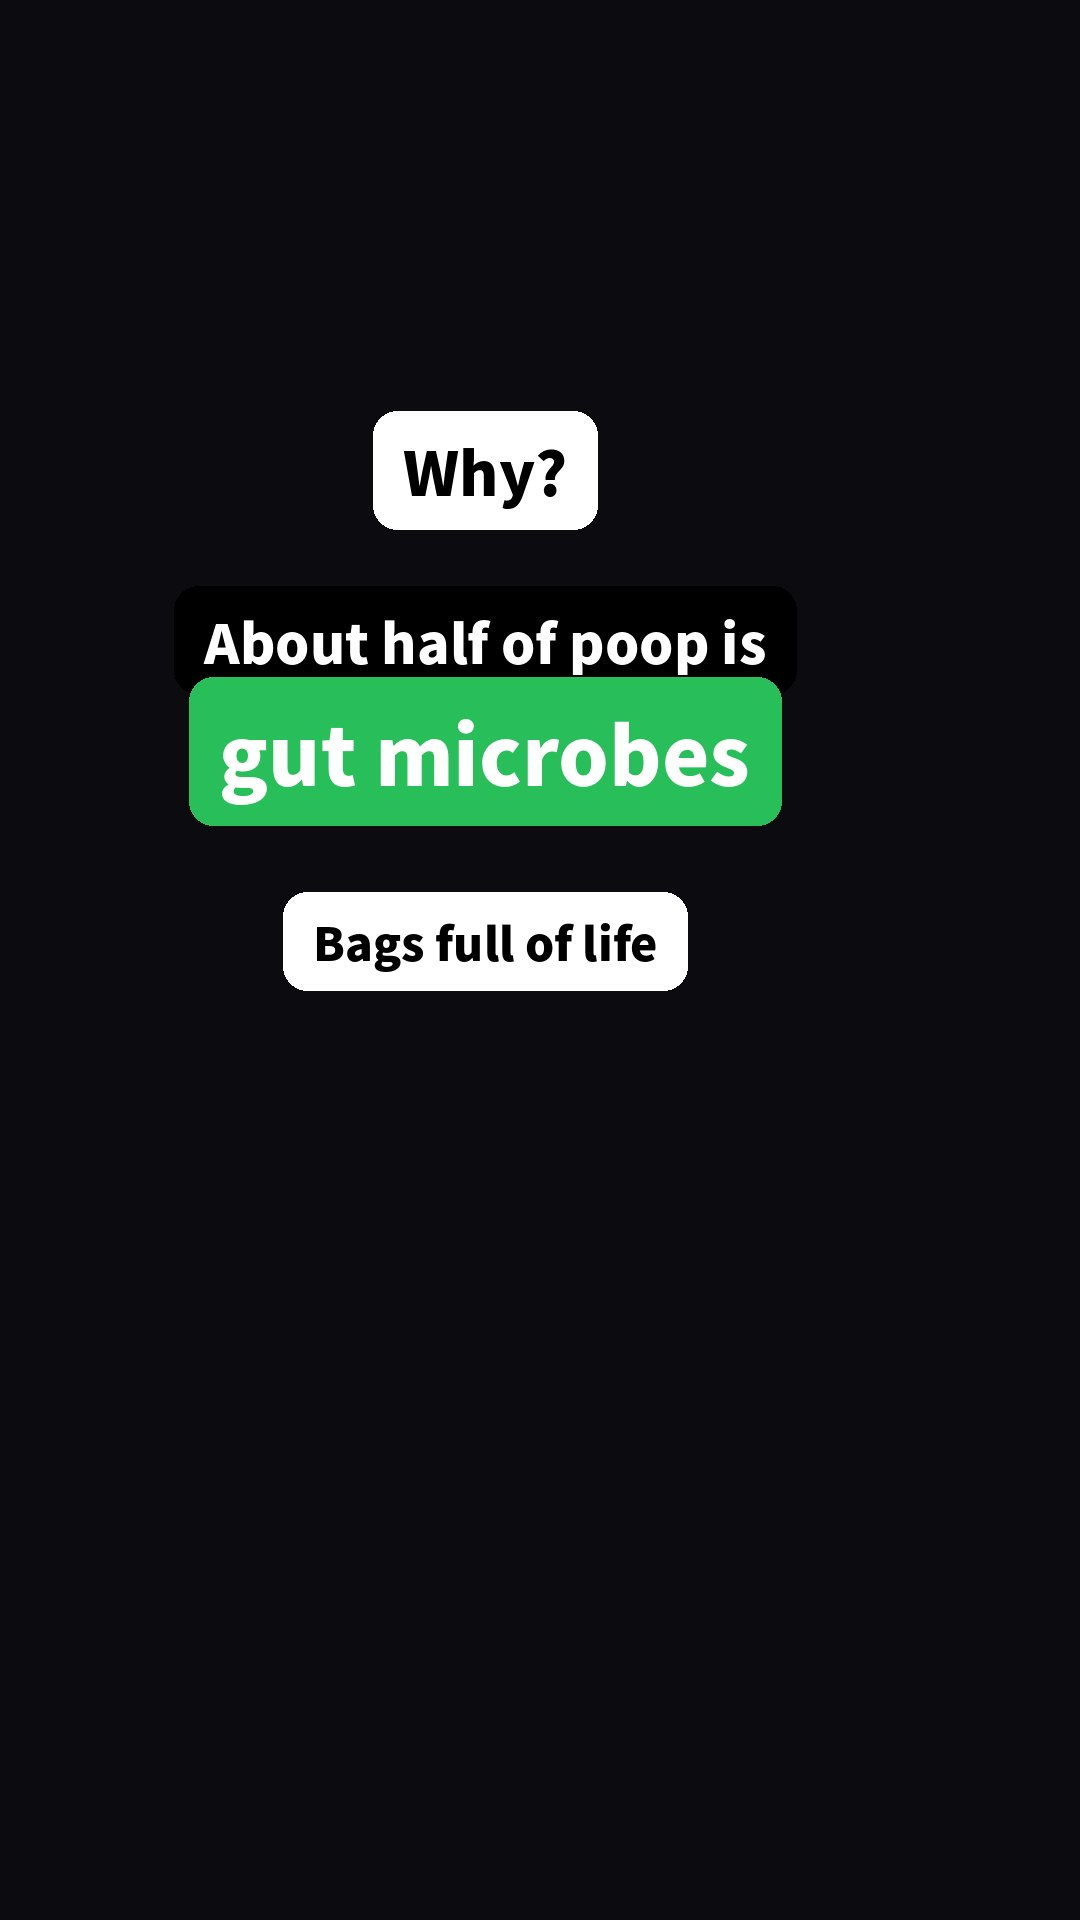
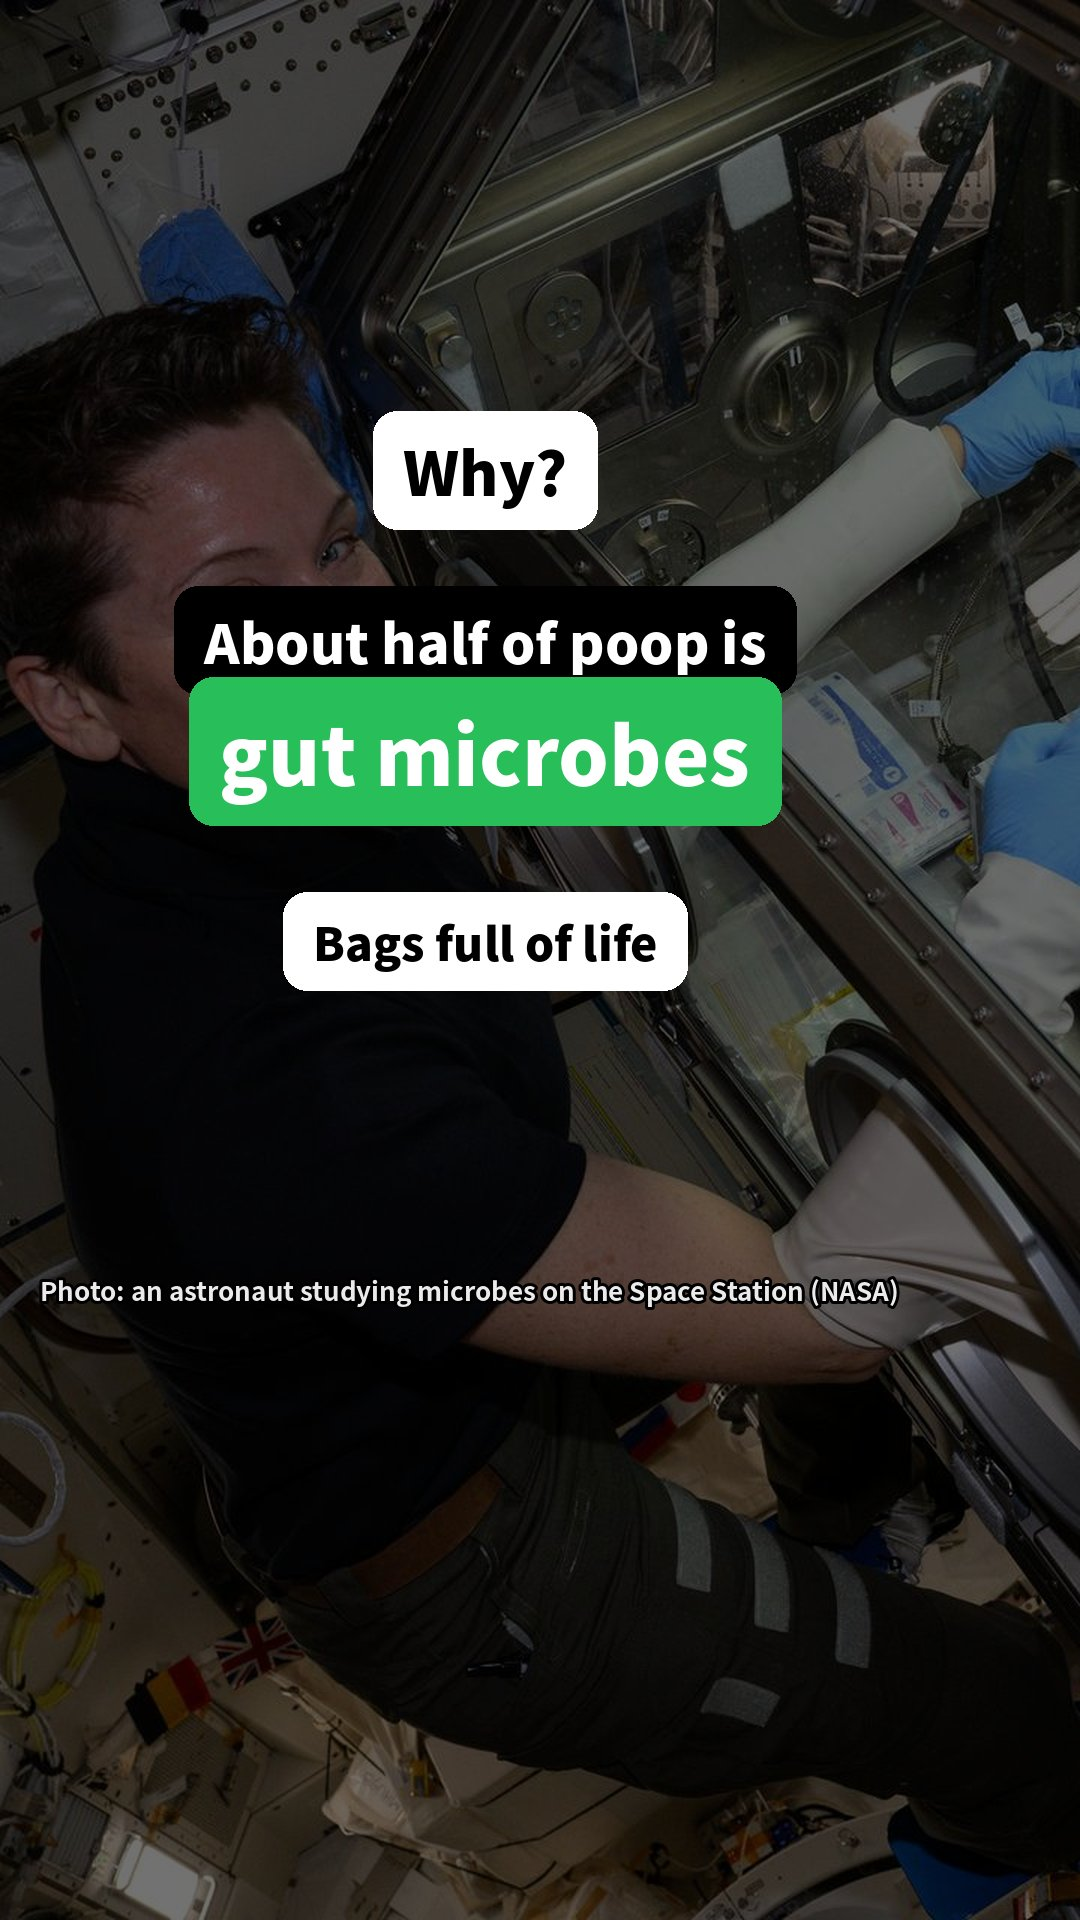
Polish: NASA photos replace plain black quiz slides (ISS microbe lab, Earthrise); remove test posts from feed
Claude-Session: https://claude.ai/code/session_01KTAQ7tbA9dyiSRaibWFyCH

diff --git a/sw.js b/sw.js
@@ -1,5 +1,5 @@
 // Offline support: app shell cached on install; data network-first; media cache-first.
-const V = 'oor-v25';
+const V = 'oor-v26';
 const SHELL = ['./', 'index.html', 'css/app.css', 'js/main.js', 'js/i18n.js', 'js/data.js', 'js/store.js', 'js/render.js', 'js/feed.js', 'js/sheets.js', 'js/pages.js', 'js/create.js', 'js/speech.js', 'js/audio.js', 'vendor/idb-keyval.js', 'vendor/html-to-image.js', 'manifest.webmanifest', 'icons/icon-192.png'];
 self.addEventListener('install', e => { e.waitUntil(caches.open(V).then(c => c.addAll(SHELL)).then(() => self.skipWaiting())); });
 self.addEventListener('activate', e => { e.waitUntil(caches.keys().then(ks => Promise.all(ks.filter(k => k !== V).map(k => caches.delete(k)))).then(() => self.clients.claim())); });

diff --git a/tools/build_lost_quiz.py b/tools/build_lost_quiz.py
@@ -7,14 +7,15 @@ Counts (from sources in data/posts.json): bags of waste 96, cameras 12, pairs of
 import sys, os, subprocess
 from PIL import Image, ImageDraw, ImageFont
 IMG, AUD, OUT = sys.argv[1:4]; W, H = 1080, 1920
+IMG2 = '/home/claude/nasa_dl/lost2'   # extra NASA photos (Earthrise, ISS microbe lab)
 def F(sz, w='Black'): return ImageFont.truetype(f'/usr/share/fonts/opentype/noto/NotoSansCJK-{w}.ttc', sz, index=0)
 def cover(im, cx=.5, cy=.5, z=1.0):
     iw, ih = im.size; tw = min(iw, ih * W / H) / z; th = tw * H / W
     if th > ih: th = ih; tw = th * W / H
     x0 = min(max(cx * iw - tw / 2, 0), iw - tw); y0 = min(max(cy * ih - th / 2, 0), ih - th)
     return im.resize((W, H), Image.LANCZOS, box=(x0, y0, x0 + tw, y0 + th))
-JA_STORY = [{'bg': 'astro', 'y': 470, 'note': '写真：アポロ12号の宇宙飛行士（NASA）', 'items': [('pill', 'なんで置いてきたの？', 52, (255, 255, 255), (0, 0, 0)), ('gap', 40), ('pill', '帰りに月の石を', 48, (0, 0, 0), (255, 255, 255)), ('pill', 'たくさん持ち帰るため', 48, (0, 0, 0), (255, 255, 255)), ('gap', 30), ('pill', 'いらない物は置いてきた', 56, (255, 206, 0), (0, 0, 0))]}, {'bg': 'lm', 'y': 400, 'items': [('pill', 'でも今、科学者が', 50, (255, 255, 255), (0, 0, 0)), ('pill', 'いちばん取りに行きたいのは', 50, (255, 255, 255), (0, 0, 0)), ('gap', 60), ('pill', 'うんち', 130, (255, 206, 0), (0, 0, 0))]}, {'bg': 'black', 'y': 470, 'items': [('pill', 'なんで？', 60, (255, 255, 255), (0, 0, 0)), ('gap', 50), ('pill', 'うんちの約半分は', 56, (0, 0, 0), (255, 255, 255)), ('pill', 'おなかの「菌」', 80, (40, 190, 90), (255, 255, 255)), ('gap', 40), ('pill', '生き物が入った袋なんです', 46, (255, 255, 255), (0, 0, 0))]}, {'bg': 'ground', 'y': 440, 'items': [('pill', 'しかも月はこんな場所', 52, (255, 255, 255), (0, 0, 0)), ('gap', 50), ('card', '空気', 'ない', (60, 140, 255)), ('card', '昼の温度', '約100℃', (230, 60, 60)), ('card', '夜の温度', '約−170℃', (60, 140, 255)), ('card', '放射線', 'あびっぱなし', (255, 150, 0)), ('gap', 10), ('pill', '生き物には最悪の場所', 52, (255, 206, 0), (0, 0, 0))]}, {'bg': 'black', 'y': 400, 'items': [('pill', 'そこで50年以上…', 56, (255, 255, 255), (0, 0, 0)), ('pill', 'もし菌が生きていたら', 56, (255, 255, 255), (0, 0, 0)), ('gap', 50), ('pill', '生き物は', 70, (40, 190, 90), (255, 255, 255)), ('pill', '宇宙の旅にも', 70, (40, 190, 90), (255, 255, 255)), ('pill', '耐えられるかも', 70, (40, 190, 90), (255, 255, 255)), ('gap', 70), ('pill', '生きてると思う？ ○か×でコメントしてね', 40, (255, 206, 0), (0, 0, 0))]}]
-EN_STORY = [{'bg': 'astro', 'y': 470, 'note': 'Photo: Apollo 12 astronaut (NASA)', 'items': [('pill', 'Why leave things there?', 50, (255, 255, 255), (0, 0, 0)), ('gap', 40), ('pill', 'To carry lots of', 48, (0, 0, 0), (255, 255, 255)), ('pill', 'Moon rocks home', 48, (0, 0, 0), (255, 255, 255)), ('gap', 30), ('pill', "they left what they didn't need", 46, (255, 206, 0), (0, 0, 0))]}, {'bg': 'lm', 'y': 400, 'items': [('pill', 'But what scientists', 50, (255, 255, 255), (0, 0, 0)), ('pill', 'most want back now is', 50, (255, 255, 255), (0, 0, 0)), ('gap', 60), ('pill', 'the poop', 120, (255, 206, 0), (0, 0, 0))]}, {'bg': 'black', 'y': 470, 'items': [('pill', 'Why?', 60, (255, 255, 255), (0, 0, 0)), ('gap', 50), ('pill', 'About half of poop is', 54, (0, 0, 0), (255, 255, 255)), ('pill', 'gut microbes', 80, (40, 190, 90), (255, 255, 255)), ('gap', 40), ('pill', 'Bags full of life', 46, (255, 255, 255), (0, 0, 0))]}, {'bg': 'ground', 'y': 440, 'items': [('pill', 'And the Moon is like this:', 50, (255, 255, 255), (0, 0, 0)), ('gap', 50), ('card', 'Air', 'none', (60, 140, 255)), ('card', 'Daytime', '~100°C', (230, 60, 60)), ('card', 'Night', '~−170°C', (60, 140, 255)), ('card', 'Radiation', 'nonstop', (255, 150, 0)), ('gap', 10), ('pill', 'The worst place for life', 50, (255, 206, 0), (0, 0, 0))]}, {'bg': 'black', 'y': 400, 'items': [('pill', 'After 50+ years there,', 54, (255, 255, 255), (0, 0, 0)), ('pill', 'if the microbes are alive', 54, (255, 255, 255), (0, 0, 0)), ('gap', 50), ('pill', 'life might', 70, (40, 190, 90), (255, 255, 255)), ('pill', 'survive trips', 70, (40, 190, 90), (255, 255, 255)), ('pill', 'through space', 70, (40, 190, 90), (255, 255, 255)), ('gap', 70), ('pill', 'Alive or not? Comment O or X', 42, (255, 206, 0), (0, 0, 0))]}]
+JA_STORY = [{'bg': 'astro', 'y': 470, 'note': '写真：アポロ12号の宇宙飛行士（NASA）', 'items': [('pill', 'なんで置いてきたの？', 52, (255, 255, 255), (0, 0, 0)), ('gap', 40), ('pill', '帰りに月の石を', 48, (0, 0, 0), (255, 255, 255)), ('pill', 'たくさん持ち帰るため', 48, (0, 0, 0), (255, 255, 255)), ('gap', 30), ('pill', 'いらない物は置いてきた', 56, (255, 206, 0), (0, 0, 0))]}, {'bg': 'lm', 'y': 400, 'items': [('pill', 'でも今、科学者が', 50, (255, 255, 255), (0, 0, 0)), ('pill', 'いちばん取りに行きたいのは', 50, (255, 255, 255), (0, 0, 0)), ('gap', 60), ('pill', 'うんち', 130, (255, 206, 0), (0, 0, 0))]}, {'bg': 'micro', 'y': 470, 'note': '写真：宇宙ステーションで菌を調べる宇宙飛行士（NASA）', 'items': [('pill', 'なんで？', 60, (255, 255, 255), (0, 0, 0)), ('gap', 50), ('pill', 'うんちの約半分は', 56, (0, 0, 0), (255, 255, 255)), ('pill', 'おなかの「菌」', 80, (40, 190, 90), (255, 255, 255)), ('gap', 40), ('pill', '生き物が入った袋なんです', 46, (255, 255, 255), (0, 0, 0))]}, {'bg': 'ground', 'y': 440, 'items': [('pill', 'しかも月はこんな場所', 52, (255, 255, 255), (0, 0, 0)), ('gap', 50), ('card', '空気', 'ない', (60, 140, 255)), ('card', '昼の温度', '約100℃', (230, 60, 60)), ('card', '夜の温度', '約−170℃', (60, 140, 255)), ('card', '放射線', 'あびっぱなし', (255, 150, 0)), ('gap', 10), ('pill', '生き物には最悪の場所', 52, (255, 206, 0), (0, 0, 0))]}, {'bg': 'earth', 'y': 480, 'note': '写真：月から見た地球「地球の出」（アポロ8号、NASA）', 'items': [('pill', 'そこで50年以上…', 56, (255, 255, 255), (0, 0, 0)), ('pill', 'もし菌が生きていたら', 56, (255, 255, 255), (0, 0, 0)), ('gap', 30), ('pill', '生き物は', 70, (40, 190, 90), (255, 255, 255)), ('pill', '宇宙の旅にも', 70, (40, 190, 90), (255, 255, 255)), ('pill', '耐えられるかも', 70, (40, 190, 90), (255, 255, 255)), ('gap', 40), ('pill', '生きてると思う？ ○か×でコメントしてね', 40, (255, 206, 0), (0, 0, 0))]}]
+EN_STORY = [{'bg': 'astro', 'y': 470, 'note': 'Photo: Apollo 12 astronaut (NASA)', 'items': [('pill', 'Why leave things there?', 50, (255, 255, 255), (0, 0, 0)), ('gap', 40), ('pill', 'To carry lots of', 48, (0, 0, 0), (255, 255, 255)), ('pill', 'Moon rocks home', 48, (0, 0, 0), (255, 255, 255)), ('gap', 30), ('pill', "they left what they didn't need", 46, (255, 206, 0), (0, 0, 0))]}, {'bg': 'lm', 'y': 400, 'items': [('pill', 'But what scientists', 50, (255, 255, 255), (0, 0, 0)), ('pill', 'most want back now is', 50, (255, 255, 255), (0, 0, 0)), ('gap', 60), ('pill', 'the poop', 120, (255, 206, 0), (0, 0, 0))]}, {'bg': 'micro', 'y': 470, 'note': 'Photo: an astronaut studying microbes on the Space Station (NASA)', 'items': [('pill', 'Why?', 60, (255, 255, 255), (0, 0, 0)), ('gap', 50), ('pill', 'About half of poop is', 54, (0, 0, 0), (255, 255, 255)), ('pill', 'gut microbes', 80, (40, 190, 90), (255, 255, 255)), ('gap', 40), ('pill', 'Bags full of life', 46, (255, 255, 255), (0, 0, 0))]}, {'bg': 'ground', 'y': 440, 'items': [('pill', 'And the Moon is like this:', 50, (255, 255, 255), (0, 0, 0)), ('gap', 50), ('card', 'Air', 'none', (60, 140, 255)), ('card', 'Daytime', '~100°C', (230, 60, 60)), ('card', 'Night', '~−170°C', (60, 140, 255)), ('card', 'Radiation', 'nonstop', (255, 150, 0)), ('gap', 10), ('pill', 'The worst place for life', 50, (255, 206, 0), (0, 0, 0))]}, {'bg': 'earth', 'y': 480, 'note': 'Photo: Earthrise seen from the Moon (Apollo 8, NASA)', 'items': [('pill', 'After 50+ years there,', 54, (255, 255, 255), (0, 0, 0)), ('pill', 'if the microbes are alive', 54, (255, 255, 255), (0, 0, 0)), ('gap', 30), ('pill', 'life might', 70, (40, 190, 90), (255, 255, 255)), ('pill', 'survive trips', 70, (40, 190, 90), (255, 255, 255)), ('pill', 'through space', 70, (40, 190, 90), (255, 255, 255)), ('gap', 40), ('pill', 'Alive or not? Comment O or X', 42, (255, 206, 0), (0, 0, 0))]}]
 # visible area on phones (top bar above, account name/caption below): keep text inside
 SAFE_TOP, SAFE_BOTTOM = 360, 1280
 COL = [(255, 64, 129), (60, 140, 255), (255, 150, 0), (40, 190, 90)]
@@ -40,6 +41,12 @@ def sticker(d, top, tag, lines, size=44, color=(20, 20, 20)):
     d.ellipse((120, top + 28, 180, top + 88), fill=(255, 196, 0)); d.text((200, top + 58), tag, font=F(30, 'Bold'), fill=(120, 120, 120), anchor='lm')
     for i, l in enumerate(lines): d.text((125, top + 120 + i * int(size * 1.45)), l, font=F(size, 'Bold'), fill=color, anchor='lm')
     return top + h
+def earth_bg(er):
+    # Earthrise: the Earth sits at the top, the lunar horizon behind the text
+    from PIL import ImageEnhance
+    er = ImageEnhance.Brightness(er.resize((W, W), Image.LANCZOS)).enhance(.85)
+    m = Image.new('L', (1, W)); [m.putpixel((0, y), int(255 * min(1, (W - y) / 260))) for y in range(W)]   # fade the lunar ground into black
+    im = Image.new('RGB', (W, H), (0, 0, 0)); im.paste(er, (-55, -185), m.resize((W, W))); return im
 def main():
     os.makedirs(OUT, exist_ok=True)
     lm = Image.open(f'{IMG}/as14-66-09277.jpg').convert('RGB')
@@ -48,7 +55,10 @@ def main():
     astro = Image.open(f'{IMG}/AS12-48-7133.jpg').convert('RGB')
     dim = lambda im, k=.45: ImageEnhance.Brightness(im).enhance(k)
     story_bg = {'astro': dim(cover(astro, .55, .6, 1.3), .7), 'ground': dim(cover(lm, .5, .9, 2.6), .55),
-                'lm': dim(bg1, .5), 'black': Image.new('RGB', (W, H), (12, 12, 16))}
+                'lm': dim(bg1, .5),
+                # NASA photos instead of plain black: ISS microbe lab (iss073e0027806), Apollo 8 Earthrise (AS08-14-2383)
+                'micro': dim(cover(Image.open(f'{IMG2}/bacteria.jpg').convert('RGB'), .45, .5, 1.0), .45),
+                'earth': earth_bg(Image.open(f'{IMG2}/earthrise.jpg').convert('RGB'))}
     for lang, t in T.items():
         # 1 question (the A-D buttons are real, tappable buttons drawn by the app)
         im = bg1.copy(); d = ImageDraw.Draw(im); sticker(d, SAFE_TOP, t['tag'], t['q'], 48)
